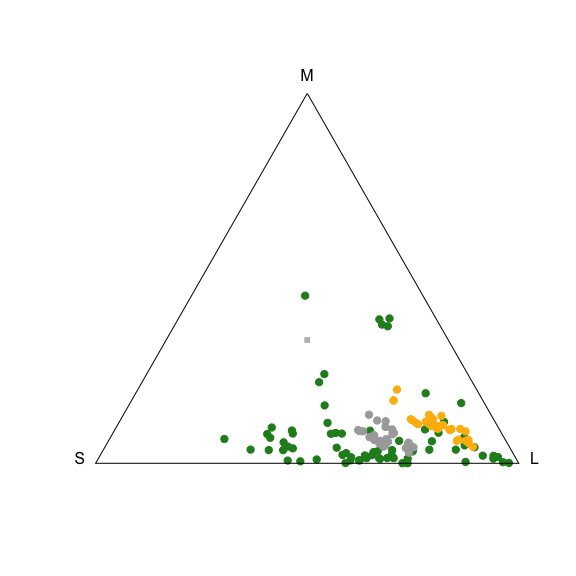
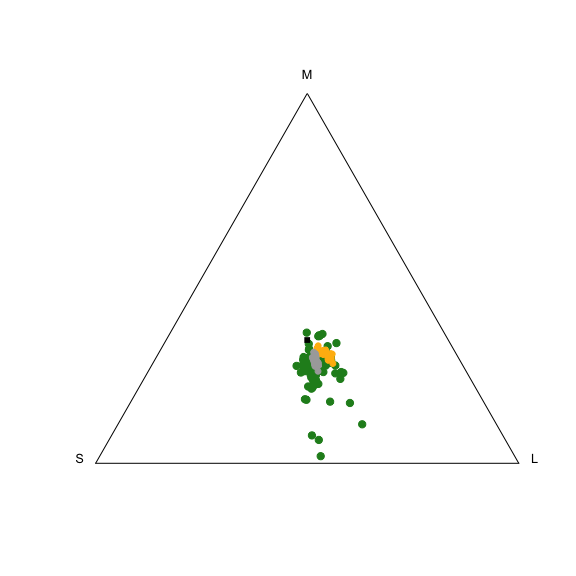
Tidying

diff --git a/Rmd/examples.md b/Rmd/examples.md
@@ -168,7 +168,7 @@ adonis(mat$roof ~ group$roof)
     ## Terms added sequentially (first to last)
     ## 
     ##            Df SumsOfSqs MeanSqs F.Model    R2 Pr(>F)
-    ## group$roof  1      3.22  3.2242 0.49025 0.009  0.538
+    ## group$roof  1      3.22  3.2242 0.49025 0.009  0.515
     ## Residuals  54    355.14  6.5766         0.991       
     ## Total      55    358.36                 1.000
 
@@ -208,7 +208,7 @@ adonis(mat$tongue ~ group$tongue)
     ## Terms added sequentially (first to last)
     ## 
     ##              Df SumsOfSqs MeanSqs F.Model      R2 Pr(>F)
-    ## group$tongue  1     12.17 12.1726  1.6766 0.02857  0.209
+    ## group$tongue  1     12.17 12.1726  1.6766 0.02857  0.196
     ## Residuals    57    413.82  7.2601         0.97143       
     ## Total        58    426.00                 1.00000
 
@@ -230,15 +230,15 @@ bootcentroidDS(models$lab[,1:4], models$lab$group, n1 = 1, n2 = 1, n3 = 3.5, n4 
 ```
 
     ##     measured.dS    CI.lwr    CI.upr
-    ## F-M   0.4650257 0.3172097 0.6317713
+    ## F-M   0.4650257 0.3193003 0.6241576
 
 ``` r
 # throat
 bootcentroidDS(models$throat[,1:4], models$throat$group, n1 = 1, n2 = 1, n3 = 3.5, n4 = 6, v = 0.10)
 ```
 
-    ##     measured.dS    CI.lwr    CI.upr
-    ## F-M   0.5703535 0.3705315 0.8139843
+    ##     measured.dS    CI.lwr   CI.upr
+    ## F-M   0.5703535 0.3690525 0.842059
 
 So lab's & throats are statistically distinct, but fall below threshold on average.
 
@@ -266,12 +266,6 @@ specs <- as.rspec(read.csv('data/mimicry/flowers_spiders.csv'), interp = FALSE)
     ## wavelengths found in column 1
 
 ``` r
-back <- as.rspec(read.csv('data/mimicry/bkg.csv'), interp = FALSE)
-```
-
-    ## wavelengths found in column 1
-
-``` r
 # Honeybee
 bee_vis <- sensmodel(c(344, 436, 556), beta = FALSE) 
 names(bee_vis) <- c('wl','s', 'm', 'l')
@@ -280,7 +274,7 @@ names(bee_vis) <- c('wl','s', 'm', 'l')
 models <- vismodel(specs, visual = bee_vis, relative = FALSE,
                                                  qcatch = "fi", scale = 10000)  # rn
 models_rel <- vismodel(specs, visual = bee_vis, relative = TRUE,
-                                                 qcatch = "Qi", scale = 10000)  # for plotting
+                                                 qcatch = "fi", scale = 10000)  # for plotting
 models_tri <- trispace(models_rel)
 
 deltaS <- coldist(models, achro = FALSE, n1 = 1, n2 = 0.471, n3 = 4.412, v = 0.13)
@@ -290,9 +284,9 @@ bootcentroidDS(models[, 1:3], models$group, vis = 'tri', n1 = 1, n2 = 0.471, n3 
 ```
 
     ##     measured.dS    CI.lwr    CI.upr
-    ## F-W   0.9156266 0.4506722 1.4450443
-    ## F-Y   1.3789736 1.0175498 1.8509820
-    ## W-Y   0.7111240 0.6441988 0.8069741
+    ## F-W   0.9156266 0.4318828 1.4442582
+    ## F-Y   1.3789736 0.9827118 1.8698232
+    ## W-Y   0.7111240 0.6461248 0.8076403
 
 ``` r
 # Contrast labels
@@ -308,9 +302,9 @@ Visualise.
 
 ``` r
 # Max triangle
-triplot(models_tri[grepl("F_", rownames(models_tri)), ], col = 'forestgreen')
-points(models_tri[grepl("Y_", rownames(models_tri)), ][c('x', 'y')], pch = 19, col = 'darkgoldenrod1')
-points(models_tri[grepl("W_", rownames(models_tri)), ][c('x', 'y')], pch = 19, col = 'darkgrey')
+triplot(models_tri[grepl("F_", rownames(models_tri)), ], col = 'forestgreen', cex = 0.8)
+points(models_tri[grepl("Y_", rownames(models_tri)), ][c('x', 'y')], pch = 19, col = 'darkgoldenrod1', cex = 0.8)
+points(models_tri[grepl("W_", rownames(models_tri)), ][c('x', 'y')], pch = 19, col = 'darkgrey', cex = 0.8)
 ```
 
 ![](../output/figures/examples/examples_figmimic_triplot-1.png)
@@ -404,7 +398,7 @@ adonis(mat$WF ~ group$WF)
     ## Terms added sequentially (first to last)
     ## 
     ##            Df SumsOfSqs MeanSqs F.Model      R2 Pr(>F)  
-    ## group$WF    1     449.8  449.83  3.6675 0.03504  0.042 *
+    ## group$WF    1     449.8  449.83  3.6675 0.03504  0.044 *
     ## Residuals 101   12387.8  122.65         0.96496         
     ## Total     102   12837.7                 1.00000         
     ## ---
@@ -441,11 +435,11 @@ bootcentroidDS(models[, 1:3], models$group, vis = 'tri', n1 = 1, n2 = 0.471, n3 
 ```
 
     ##     measured.dS    CI.lwr    CI.upr
-    ## F-W   0.9156266 0.4456402 1.4709104
-    ## F-Y   1.3789736 1.0005199 1.8486615
-    ## W-Y   0.7111240 0.6418956 0.8066762
+    ## F-W   0.9156266 0.4332925 1.4354513
+    ## F-Y   1.3789736 1.0011060 1.8564505
+    ## W-Y   0.7111240 0.6463866 0.8155021
 
-So the RN threshold for honeybees can be pretty damn low (0.3 JNDs, Dyer & Neumeyer 2005), but is variable depending on testing conditions, past experience etc. These would suggest that everying's (on average) perceptably distinct, but being near-threshold it may be influenced by learning etc.
+So the RN threshold for honeybees can be pretty damn low (0.3 JNDs, Dyer & Neumeyer 2005), but is variable depending on testing conditions, past experience etc. These would suggest that everying's (on average) perceptably distinct, but probably tough (depending on experience etc.).
 
 ``` r
 rm(deltaS, models, specs, mat, group)
